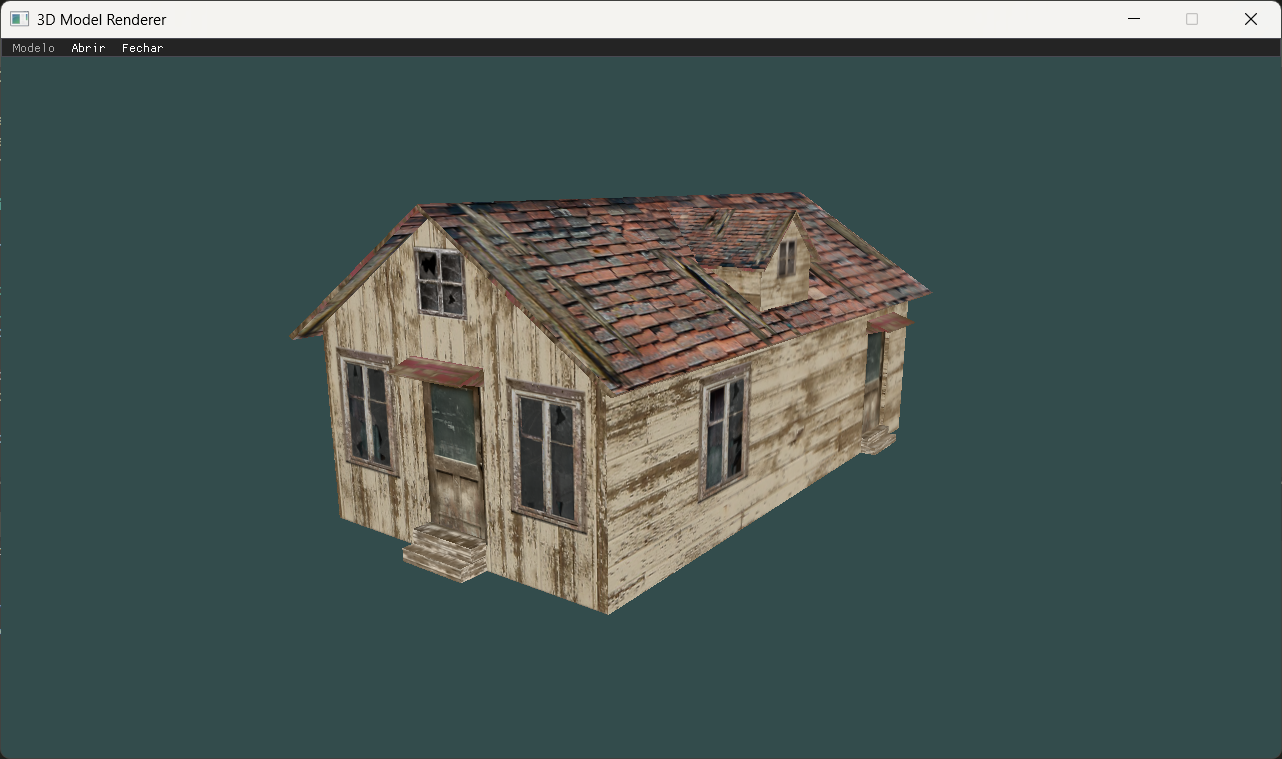
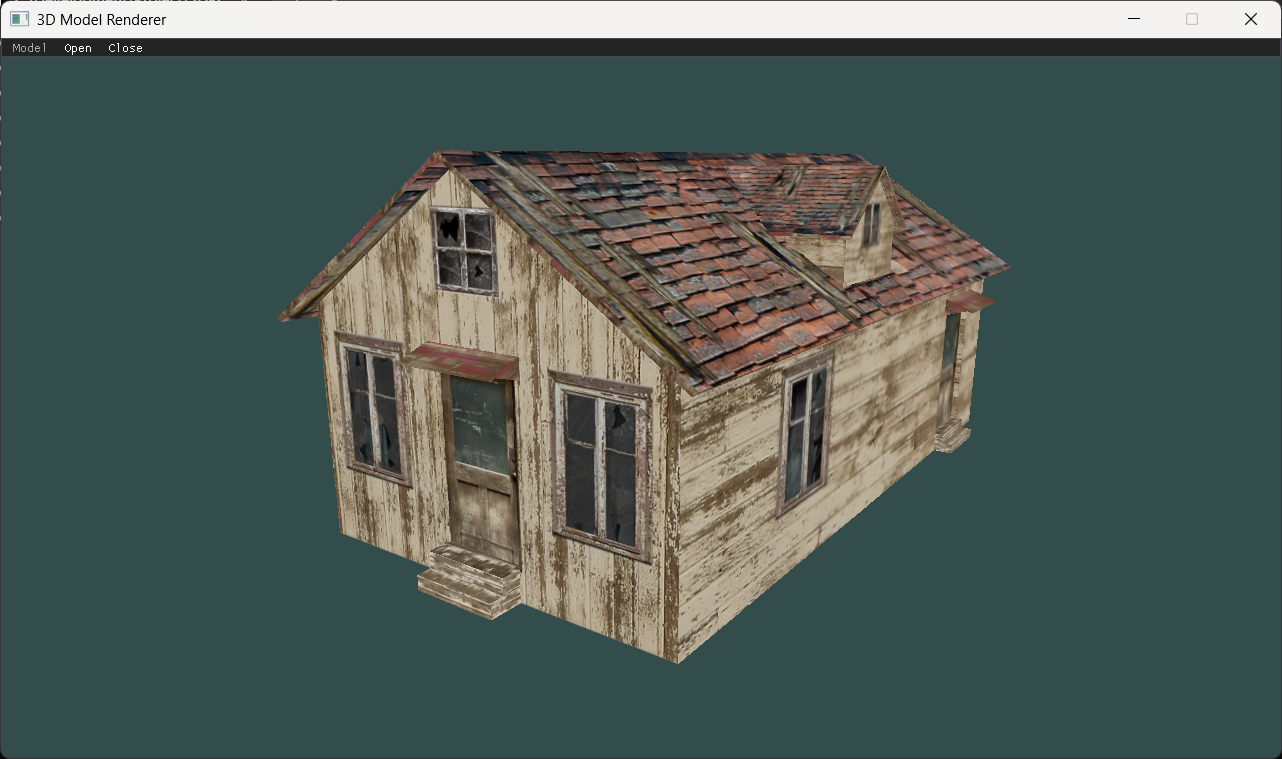
Modified screenshot

Changed region(s): [[0.2184, 0.1818, 0.78, 0.8788], [0.9984, 0.0303, 1.0, 0.0909]]

diff --git a/src/Rendering/Renderer.cpp b/src/Rendering/Renderer.cpp
@@ -73,8 +73,8 @@ void Renderer::render()
         m_model->Draw(*m_shader);
 
     ImGui::BeginMainMenuBar();
-    ImGui::MenuItem("Modelo", nullptr, nullptr, false);
-    if (ImGui::MenuItem("Abrir", "Ctrl+O"))
+    ImGui::MenuItem("Model", nullptr, nullptr, false);
+    if (ImGui::MenuItem("Open", "Ctrl+O"))
     {
         std::wstring filename = OpenFileDialog();
 
@@ -95,7 +95,7 @@ void Renderer::render()
     }
     if (m_model)
     {
-        if (ImGui::MenuItem("Fechar"))
+        if (ImGui::MenuItem("Close"))
         {
             m_model = nullptr;
         }
